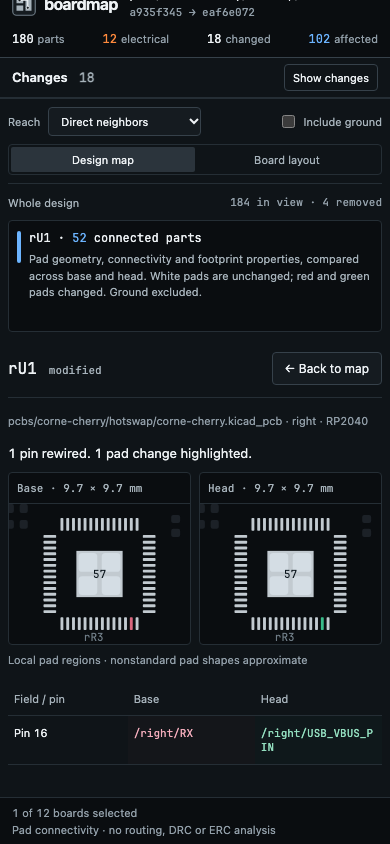
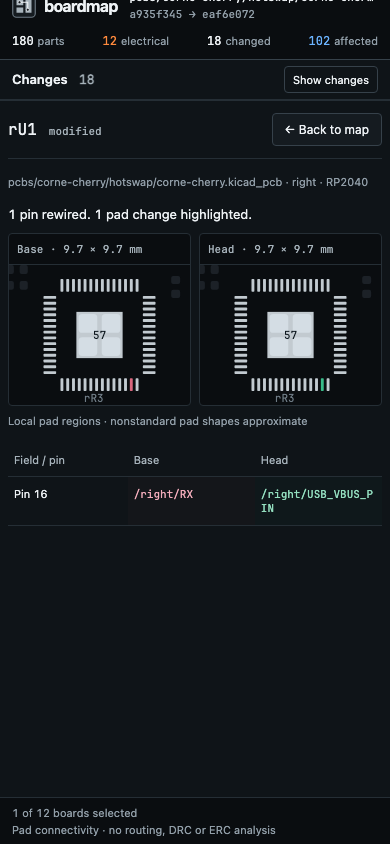
Refresh phone inspector proof

diff --git a/docs/media/navigation/README.md b/docs/media/navigation/README.md
@@ -9,9 +9,9 @@ Six PNGs captured from the running UI in Chromium. The reports use the pinned re
 | `hackrf/keyboard-focus.png` | 1440 × 900 | Keyboard focus on U23, direct neighbors and the changed-field readout.                                                                                 |
 | `hackrf/u17-inspector.png`  | 1440 × 900 | MAX2839 to MAX2837 value and footprint context above the 51 changed pin rows.                                                                          |
 | `corne/touch-reach.png`     | 390 × 844  | Real touch previews rU1 reach. Metadata artwork has neutral fill and status outlines.                                                                  |
-| `corne/touch-diff.png`      | 390 × 844  | Touch opens rU1 inspection with its header in view and document scrolling.                                                                             |
+| `corne/touch-diff.png`      | 390 × 844  | Touch opens rU1 inspection with map controls hidden, the pin change in view and document scrolling.                                                                             |
 
-The parent reviewer must inspect these PNGs before filing the PR. Existing instrument captures and the hero are unchanged.
+Existing instrument captures and the hero are unchanged.
 
 ## Reproduce
 
@@ -40,7 +40,7 @@ npm run test:e2e -- --repo "$CORNE_CACHE" \
 
 All 30 existing unit tests and all five browser commands pass. Browser assertions cover one Tab stop per component region, arrows and Home/End, native Enter/Space inspection, search through the list to Reach, exact focus restoration after Escape and resizing, gutter hover retention, focus/blur behavior, touch dismissal, and changed-field readouts. Header checks cover 1024 and 720 pixels. Text checks cover actual JetBrains Mono rendering, complete reference bounds, long property keys, rename popover bounds, and faint text contrast of at least 4.5:1 against its backgrounds.
 
-Existing assertions still cover all direct neighbor highlights, dense curve counts, ground and transitive controls, unchanged pads, changed numbered pads, and two unnumbered mounting holes with only the edited hole highlighted in both revisions. The phone regression stores one physical coordinate and sends both taps there. It also opens inspection from the expanded list, checks that the list collapses, checks document scrolling, and verifies Back focuses the same component's map tile with the map in view.
+Existing assertions still cover all direct neighbor highlights, dense curve counts, ground and transitive controls, unchanged pads, changed numbered pads, and two unnumbered mounting holes with only the edited hole highlighted in both revisions. The phone regression stores one physical coordinate and sends both taps there. It also opens inspection from the expanded list, checks that the list collapses, checks document scrolling and the first semantic change on the initial phone screen, and verifies Back focuses the same component's map tile with the map in view.
 
 A separate browser page in the synthetic fixture run checks joined assembly flags, absent versus empty string values, the ZD1 Pin 2 GND to VBUS row before other semantic rows, replacement context, and removed sheetmate display grouping. The rename check uses file, parent sheet UUID path and old label, and leaves a same-label part with a different UUID in its original group. The raw removed label remains in the inspector.
 
